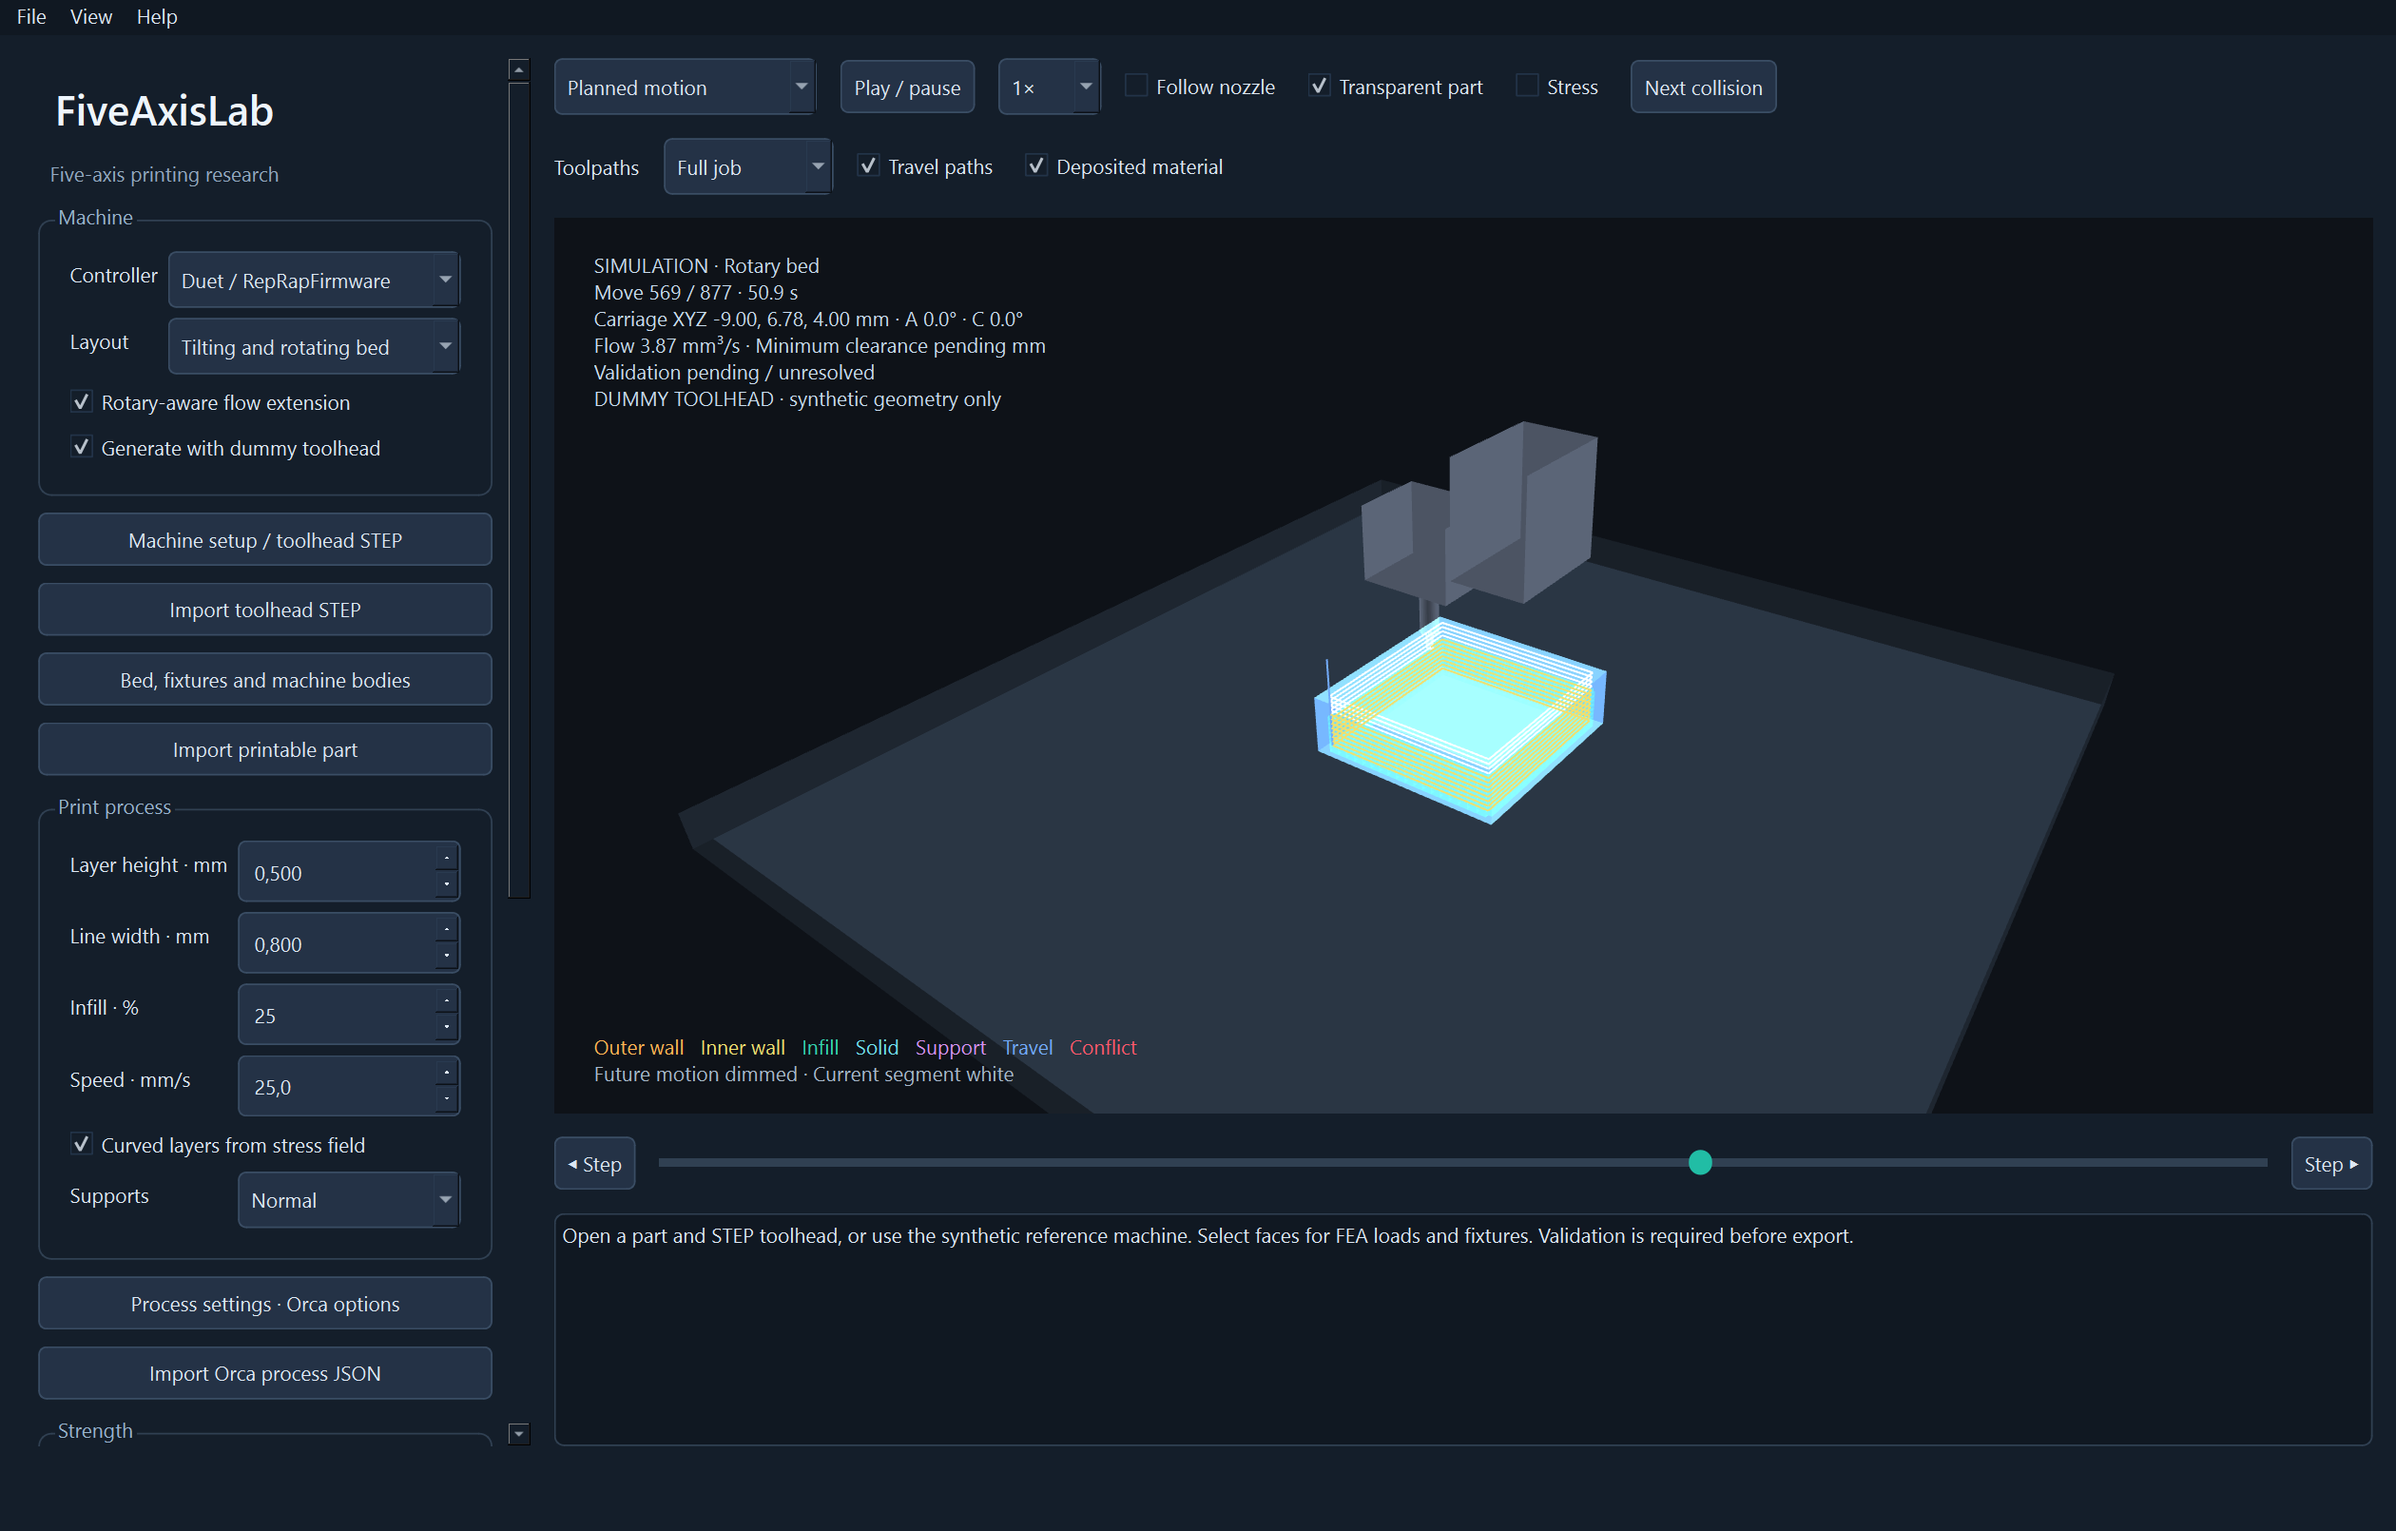
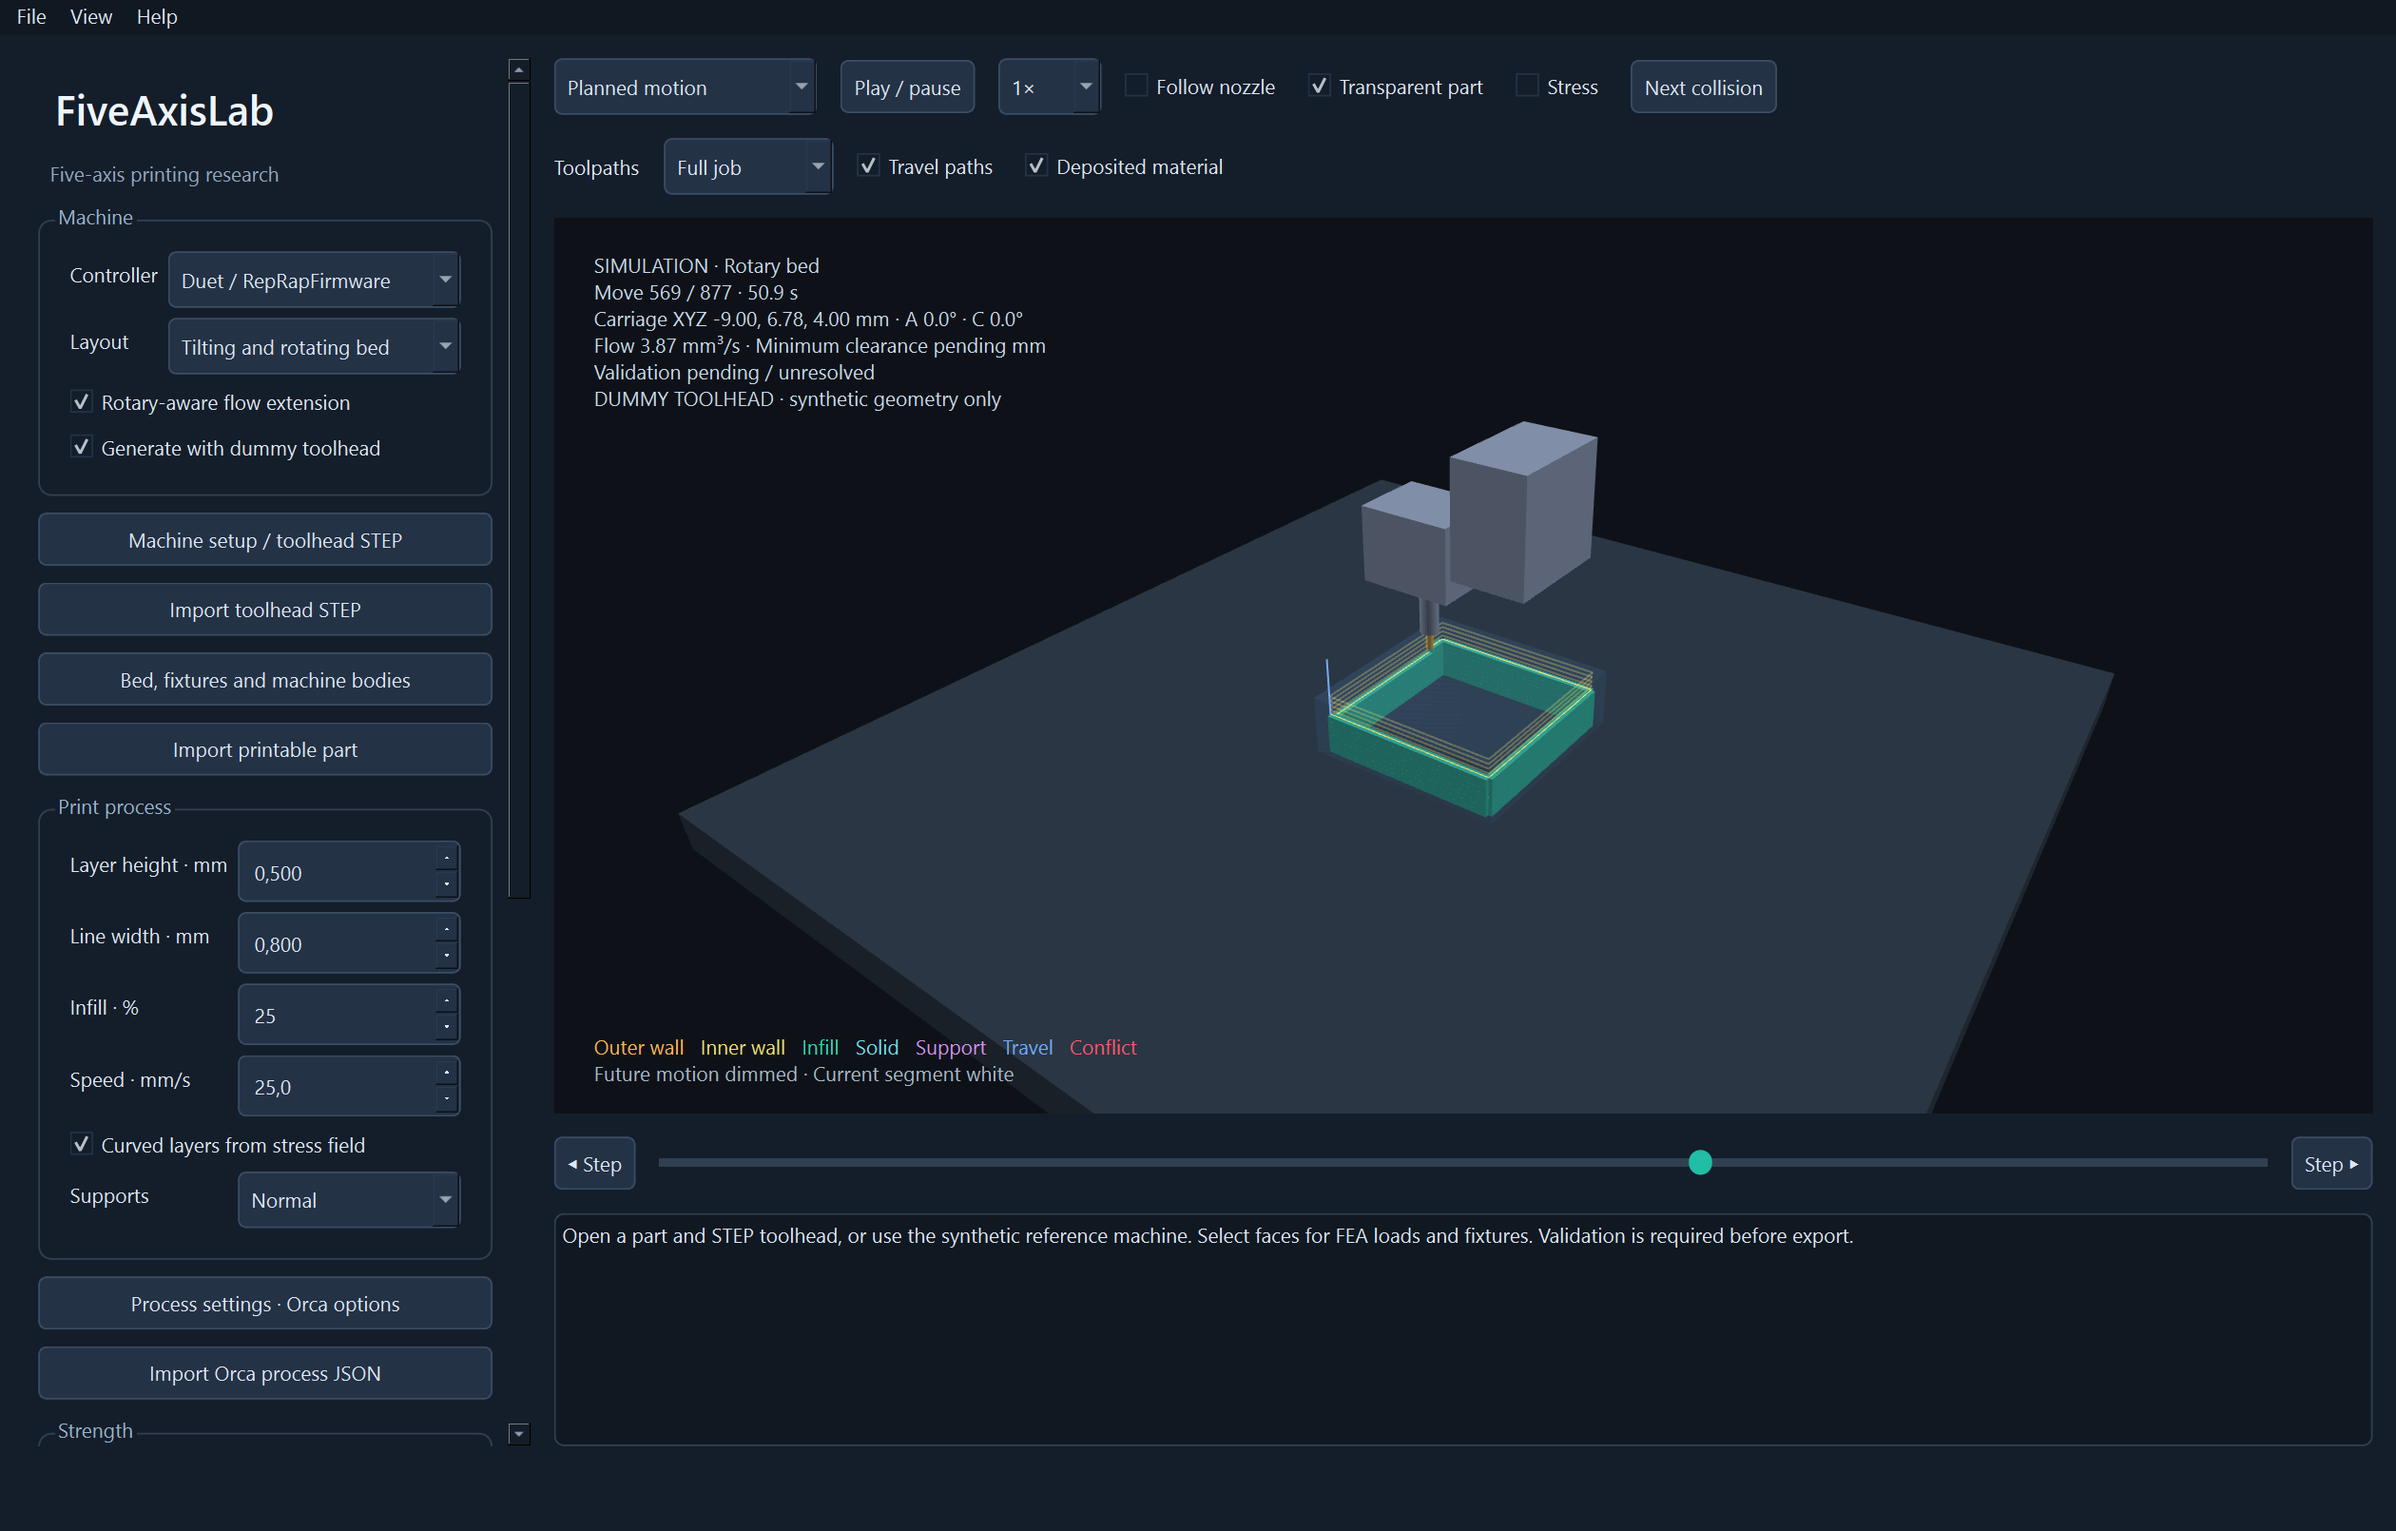
Keep toolpath preview colors stable across OpenGL frames

Changed region(s): [[0.5262, 0.4037, 0.681, 0.528], [0.65, 0.3416, 0.8976, 0.4658], [0.5571, 0.2795, 0.681, 0.3416]]

diff --git a/src/app/viewport.cpp b/src/app/viewport.cpp
@@ -211,7 +211,7 @@ void Viewport::initializeGL() {
     initializeOpenGLFunctions();
     glEnable(GL_DEPTH_TEST);
     glEnable(GL_BLEND);
-    glBlendFunc(GL_SRC_ALPHA, GL_ONE_MINUS_SRC_ALPHA);
+    glBlendFuncSeparate(GL_SRC_ALPHA, GL_ONE_MINUS_SRC_ALPHA, GL_ONE, GL_ONE_MINUS_SRC_ALPHA);
     shader.addShaderFromSourceCode(
         QOpenGLShader::Vertex,
         "attribute vec3 position;attribute vec3 normal;attribute vec3 fieldColor;uniform mat4 mvp;uniform "
@@ -306,6 +306,12 @@ void Viewport::draw_mesh(const Mesh &m, const Transform &t, QVector4D color, int
 void Viewport::paintGL() {
     QPainter painter(this);
     painter.beginNativePainting();
+    // QPainter may leave premultiplied-alpha state from its preceding overlay pass.
+    glEnable(GL_DEPTH_TEST);
+    glDepthFunc(GL_LESS);
+    glEnable(GL_BLEND);
+    glBlendFuncSeparate(GL_SRC_ALPHA, GL_ONE_MINUS_SRC_ALPHA, GL_ONE, GL_ONE_MINUS_SRC_ALPHA);
+    glDepthMask(GL_TRUE);
     glClearColor(.055f, .07f, .095f, 1);
     glClear(GL_COLOR_BUFFER_BIT | GL_DEPTH_BUFFER_BIT);
     if (!project) {
@@ -452,7 +458,7 @@ void Viewport::draw_paths(const Transform &bed) {
     for(int attribute:{pos,normal,field}) shader.enableAttributeArray(attribute);
     shader.setAttributeBuffer(pos,GL_FLOAT,0,3,9*sizeof(float)); shader.setAttributeBuffer(normal,GL_FLOAT,3*sizeof(float),3,9*sizeof(float));
     shader.setAttributeBuffer(field,GL_FLOAT,6*sizeof(float),3,9*sizeof(float));
-    glDepthMask(GL_FALSE); glLineWidth(2);
+    glDepthMask(GL_FALSE); glDepthFunc(GL_LEQUAL); glLineWidth(2);
     auto draw=[&](int begin,int end,float alpha) {
         shader.setUniformValue("color",QVector4D(1,1,1,alpha));
         if(travelPaths) glDrawArrays(GL_LINES,begin*2,(end-begin)*2);
@@ -485,7 +491,7 @@ void Viewport::draw_paths(const Transform &bed) {
             glDrawArrays(GL_LINES,0,2); shader.disableAttributeArray(pos); shader.release(); active.release(); active.destroy();
         }
     }
-    glLineWidth(1); glDepthMask(GL_TRUE);
+    glLineWidth(1); glDepthMask(GL_TRUE); glDepthFunc(GL_LESS);
 }
 void Viewport::mousePressEvent(QMouseEvent *e) {
     last = pressed = e->pos();

diff --git a/tests/desktop_tests.cpp b/tests/desktop_tests.cpp
@@ -27,7 +27,19 @@ class DesktopTests : public QObject {
         auto view=window.findChild<Viewport*>("simulationViewport"); auto paths=window.findChild<QComboBox*>("toolpathMode");
         auto support=window.findChild<QComboBox*>("supportMode"); auto dummy=window.findChild<QCheckBox*>("dummyToolhead");
         QVERIFY(view && paths && support && dummy); QVERIFY(view->toolpath_segment_count()>0);
-        auto visible=view->grabFramebuffer(); paths->setCurrentIndex(3); QTest::qWait(50);
+        auto visible=view->grabFramebuffer();
+        if(!qEnvironmentVariable("FIVEAXIS_DEBUG_FRAME").isEmpty()) visible.save(qEnvironmentVariable("FIVEAXIS_DEBUG_FRAME"));
+        auto dimBluePixels=[](const QImage &image) {
+            int count=0;
+            for(int y=0;y<image.height();++y) for(int x=0;x<image.width();++x) {
+                auto c=image.pixelColor(x,y);
+                if(std::abs(c.red()-44)<=6 && std::abs(c.green()-64)<=6 && std::abs(c.blue()-92)<=6) ++count;
+            }
+            return count;
+        };
+        QVERIFY(dimBluePixels(visible)>20);
+        view->repaint(); QVERIFY(dimBluePixels(view->grabFramebuffer())>20);
+        paths->setCurrentIndex(3); QTest::qWait(50);
         QCOMPARE(view->path_mode(),3); auto hidden=view->grabFramebuffer(); QVERIFY(visible!=hidden);
         paths->setCurrentIndex(2); QCOMPARE(view->path_mode(),2); paths->setCurrentIndex(0);
         support->setCurrentIndex(1); QCOMPARE(window.current_project().process.supportMode,SupportMode::Reduced);
